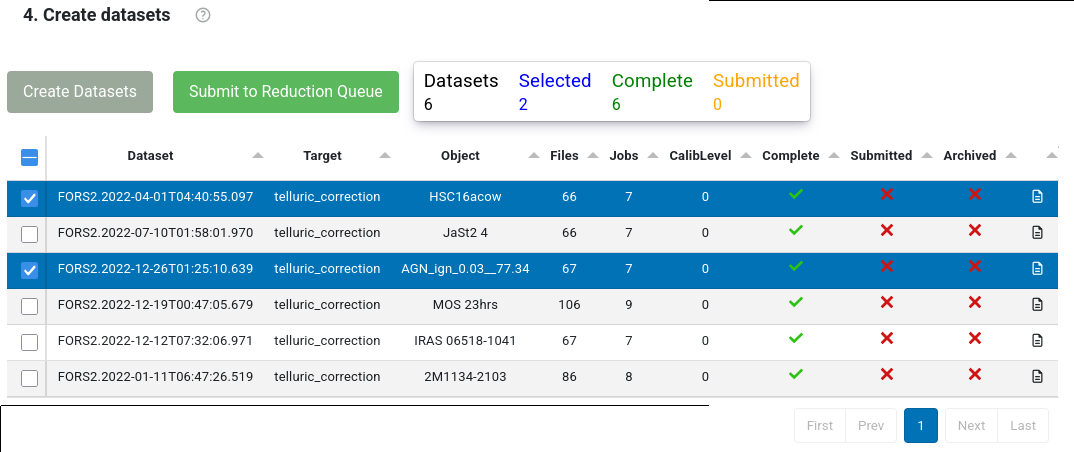
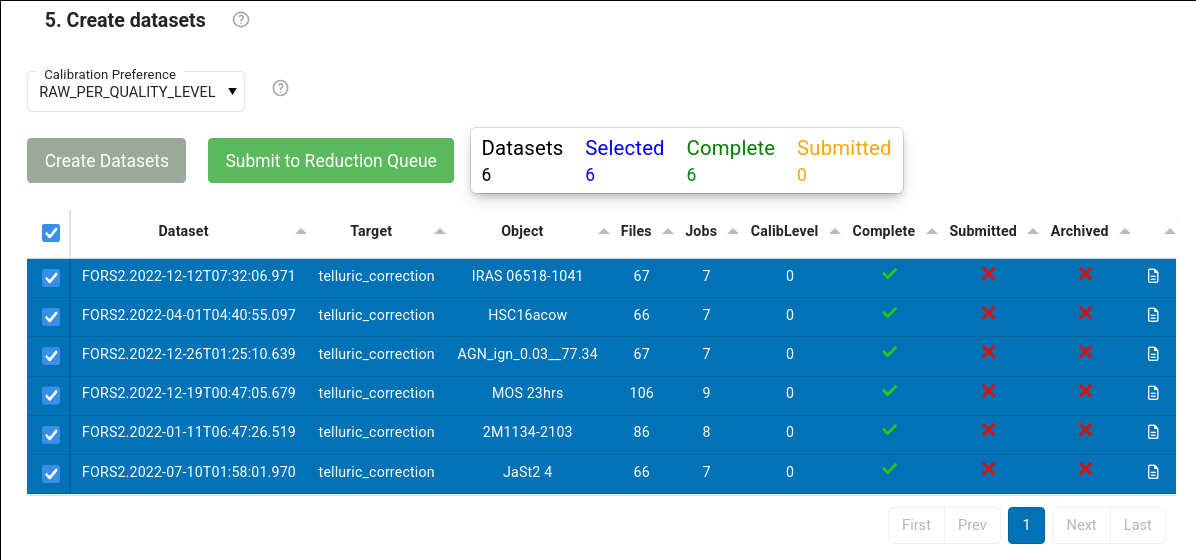
update raw data tab

diff --git a/source/edpsgui/raw_data_.md b/source/edpsgui/raw_data_.md
@@ -1,7 +1,7 @@
 This tab allows to specify and inspect the input data, to specify how deep into the reduction cascade to go
 (reduction target), to configure the association preference, and, finally, to create the dataset to reduce.
 
-There are 4 main buttons:
+There are 5 main buttons:
 
 - **Select the input data**. The button "Select Inputs" opens a window that allows to specify the
   directory where the input data are located. 
@@ -54,22 +54,31 @@ There are 4 main buttons:
 
   Individual tasks within that category are listed in the "Targets" bar. In the figure below,
   the "Science" category is shown, that contains the tasks called science_spectra and telluric_correction. The
-  categories and the tasks depends on the loaded workflow. Typically, the category "science" is specified by default.
+  categories and the tasks depends on the loaded workflow. The category "science" is specified by default.
   The category "all" shows all the tasks in that workflow. Tasks that are not desired, can be removed from the list.
   The category "qc1calib" triggers all the calibration and instrument monitoring tasks, but it does not process
-  scientific
-  images.
+  scientific images.
   Other target categories are specific for Paranal operations, and are not needed for the general user.
 
 <a name="set_parameters"></a>
 - **Select the workflow parameters** 
+
+This windows allows to specify the so called "workflow parameters", e.g. parameters that define the strategy
+of the reduction or, as in case of fors (see figure below), the criteria on how to group files to combine.
+Workflow parameters can influence which files enter a dataset. 
+
+
+   ````{figure} figures/select_workflow_parameters.jpg
+   :alt: select_workflow_parameters
+   :name: fig_select_workflow_parameters
+   ```` 
 
 <a name="create_dataset"></a>
 - **Create Dataset**. This steps creates the datasets to be reduced until the specified reduction target.
  
   The menu "Calibration preference" allows to specify the preferences in associating calibrations (e.g., raw or 
   master calibrations). The various preferences are described [here](settings_.md#association_preference). For regular 
-  science reduction the options raw_per_quality_level or master_per_quality_level are recommended.
+  science reduction the options raw_per_quality_level (default) or master_per_quality_level are recommended.
 
   Press the "Create Dataset" blue button to create the datasets. 
   Datasets, together with all the calibrations needed to process them, are listed in a table.  Selected datasets can be sent to the processing queue by pressing
